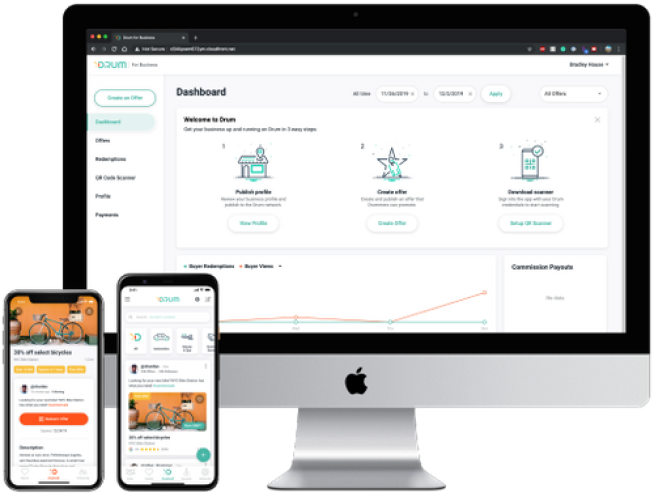
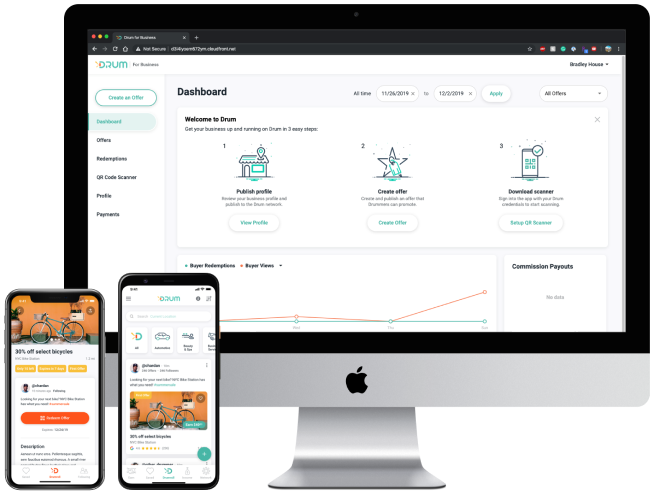
feat: update width, height image

diff --git a/case-study/drum.html b/case-study/drum.html
@@ -50,7 +50,7 @@
           </div>
         </div>
         <picture data-w-id="e96889f9-81d3-8bcc-3444-f073233b7b74" class="case-study-mobile-hero-right-column drum-cast-study-mobile-hero-right-column w-col w-col-6">
-          <source loading="lazy" media="(max-width: 479px)" width="100%" height="100%" srcset="../images/case-study/drum/webp/drum-dashboard-mobile.webp 1x, ../images/case-study/drum/webp/drum-dashboard-mobile-2x.webp 2x" type="image/webp">
+          <source loading="lazy" media="(max-width: 479px)" width="327px" height="274px" srcset="../images/case-study/drum/webp/drum-dashboard-mobile.webp 1x, ../images/case-study/drum/webp/drum-dashboard-mobile-2x.webp 2x" type="image/webp">
           <source media="(min-width: 480px)" srcset="../images/case-study/drum/webp/drum-dashboard-p-800.webp 1080w" type="image/webp">
           <img src="../images/drum-dashboard.png" alt="Screenshot of Drum website and mobile app user dashboard" srcset="../images/case-study/drum/png/drum-dashboard-p-500.png 500w, ../images/case-study/drum/png/drum-dashboard-p-800.png 800w, ../images/case-study/drum/png/drum-dashboard-p-1080.png 1080w, ../images/case-study/drum/png/drum-dashboard.png 1563w" sizes="(max-width: 479px) 90vw, (max-width: 991px) 94vw, 60vw" class="mobile-case-study-hero-image drum-hero">
         </picture>
